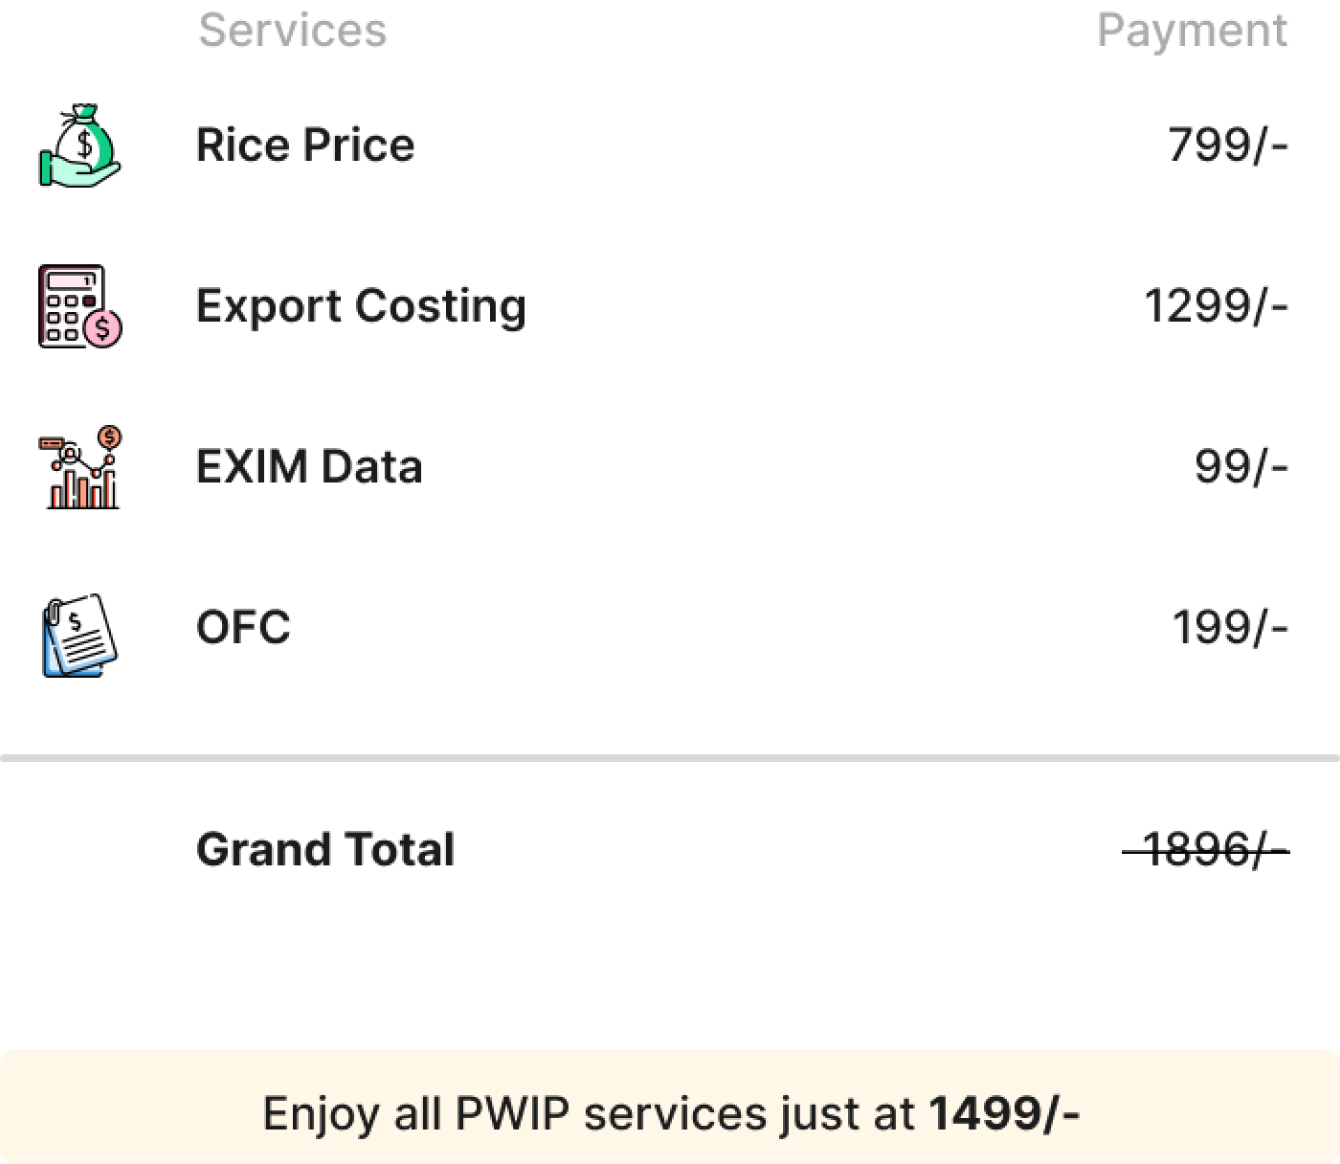
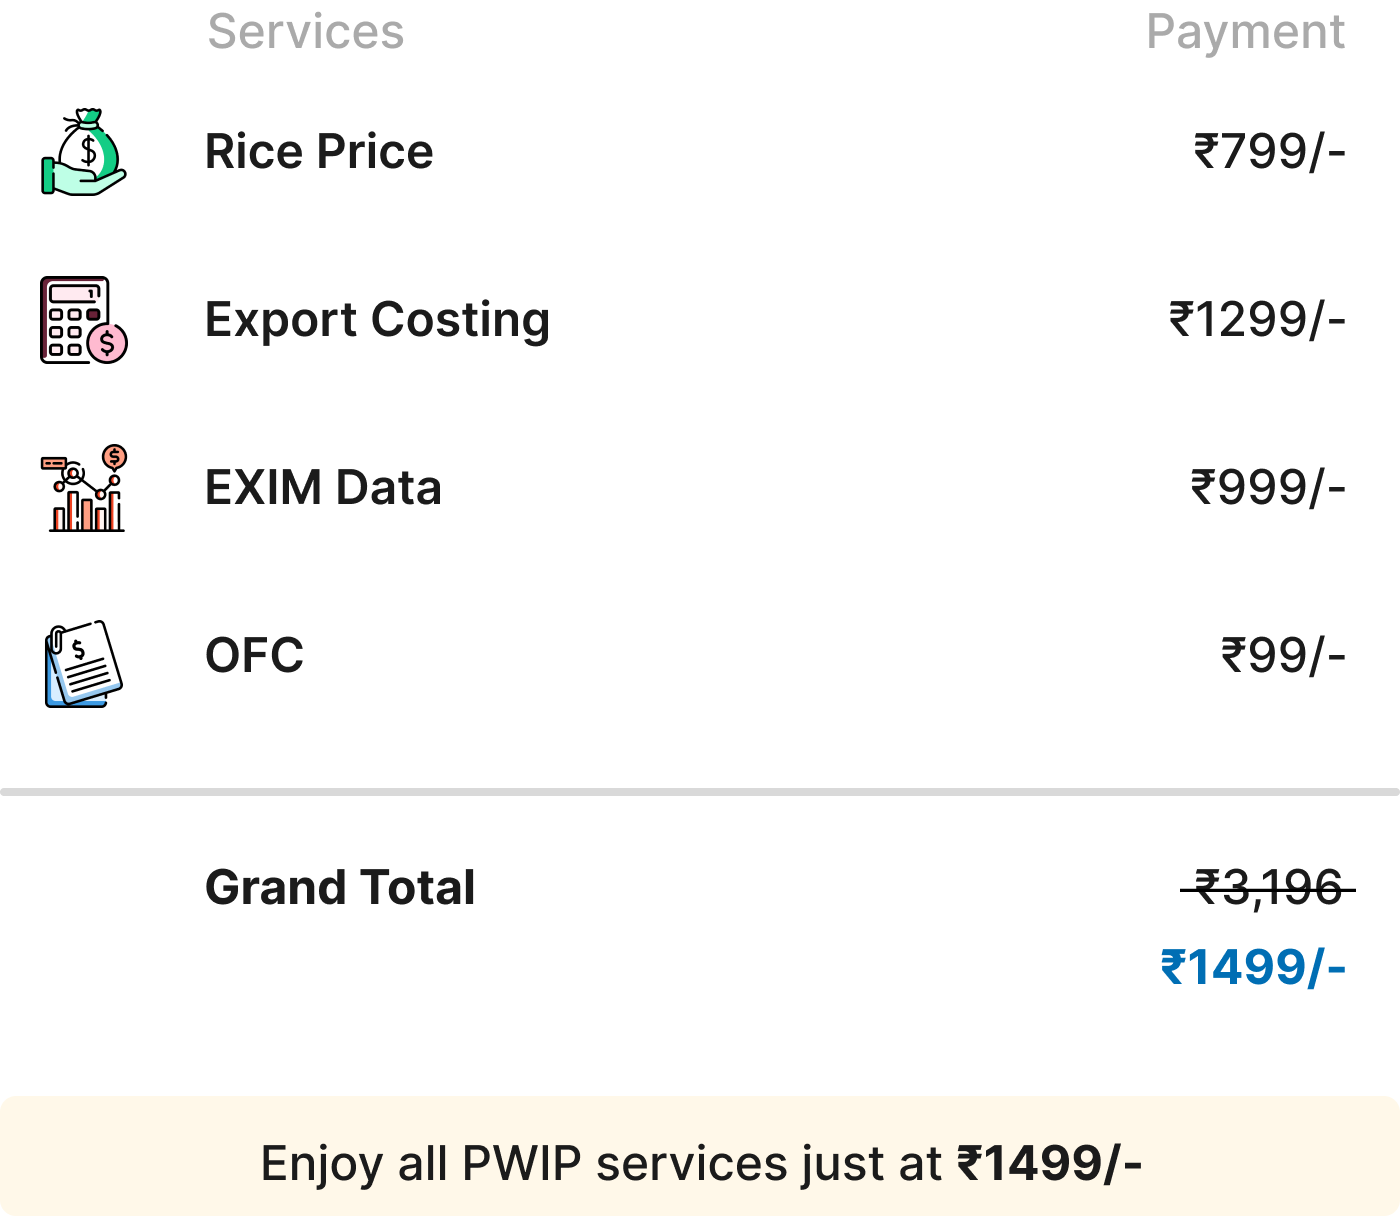
prime image update

diff --git a/pages/home/index.jsx b/pages/home/index.jsx
@@ -285,7 +285,7 @@ function PWIPPrimeLP({ authToken, getUsersSubscriptionDetails }) {
             handlePayment(plan);
           }}
         >
-          Pay and Subscribe
+          Pay ₹1,499 and subscribe
         </div>
       </div>
     </div>
